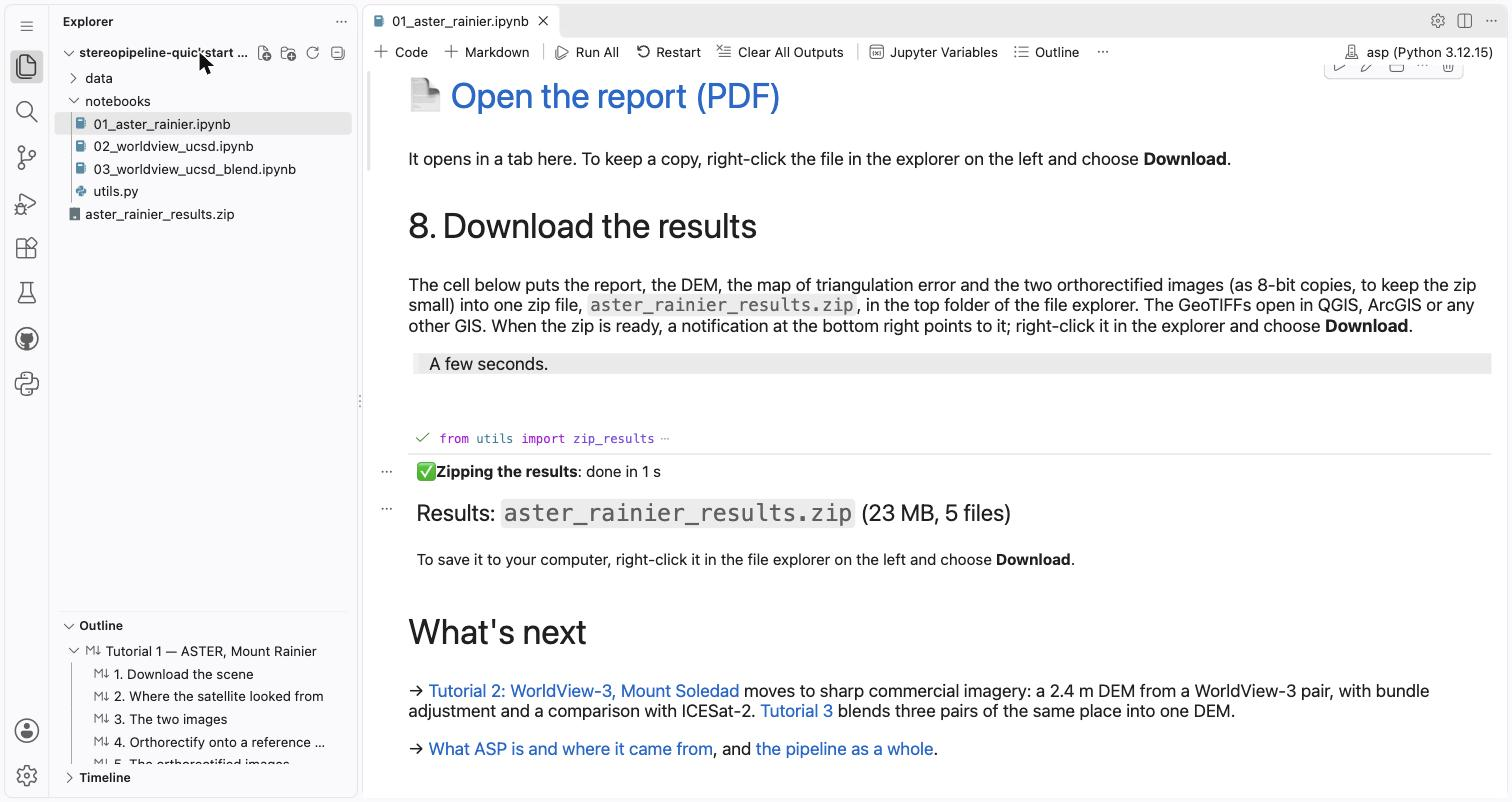
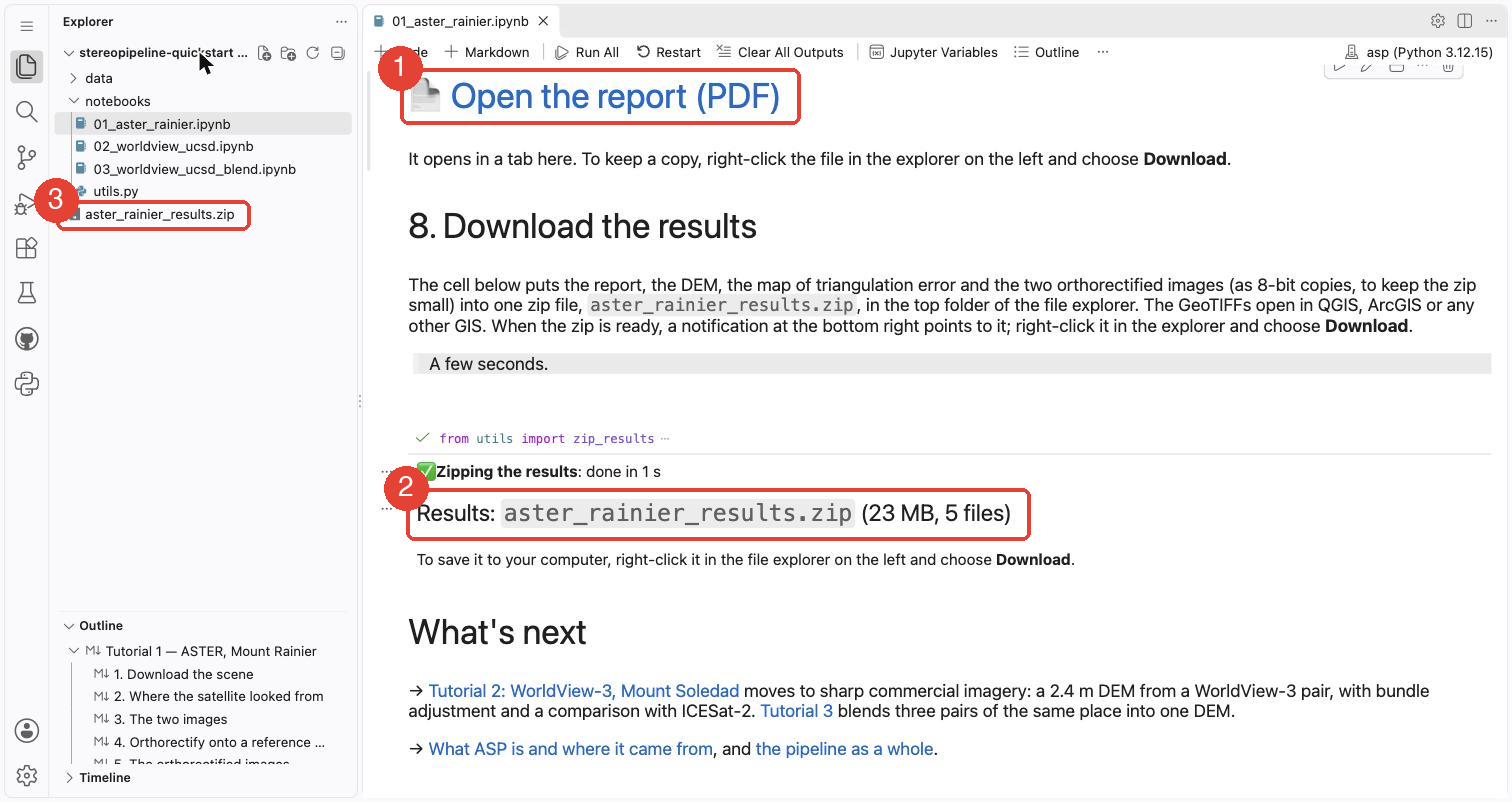
Label the end-of-run screenshot
The report link, the results line and the zip in the explorer, numbered
as the page lists them.

Claude-Session: https://claude.ai/code/session_011KC3JwzmbqUXJMF6UJmWQX

diff --git a/scripts/docs_figures/annotate_screenshots.py b/scripts/docs_figures/annotate_screenshots.py
@@ -25,8 +25,8 @@ SCREENSHOTS = {
     # Cropped below GitHub's header, which shows the account's avatar.
     "create.png": ("launch-create.png", (0, 66, 1512, 600), [("", 783, 439, 997, 495)]),
     "trust.png": ("launch-trust.png", None, []),
-    # The end of the run: the report heading, the results line and the zip in the explorer.
-    "done.png": ("launch-done.png", None, []),
+    # The end of the run: the report heading, the results line, the zip in the explorer.
+    "done.png": ("launch-done.png", None, [("1", 400, 68, 800, 124), ("2", 406, 488, 1030, 540), ("3", 56, 200, 250, 230)]),
     # The explorer, the notebook text, the first step's status line.
     "running.png": ("launch-running.png", None, [("1", 50, 38, 342, 198), ("2", 384, 222, 1442, 378), ("3", 352, 400, 1442, 628)]),
 }

diff --git a/docs/index.md b/docs/index.md
@@ -61,6 +61,10 @@ What to expect:
 
 ![The end of Tutorial 1: the report link, the results line and the zip in the explorer](start/figures/launch-done.png)
 
+1. The link that opens the PDF report.
+2. The last step's result line: the zip's name and size.
+3. The zip itself, at the top of the file explorer: right-click it and choose **Download**.
+
 To run it again, click **Run All** at the top of the notebook.
 
 ## 5. Then
